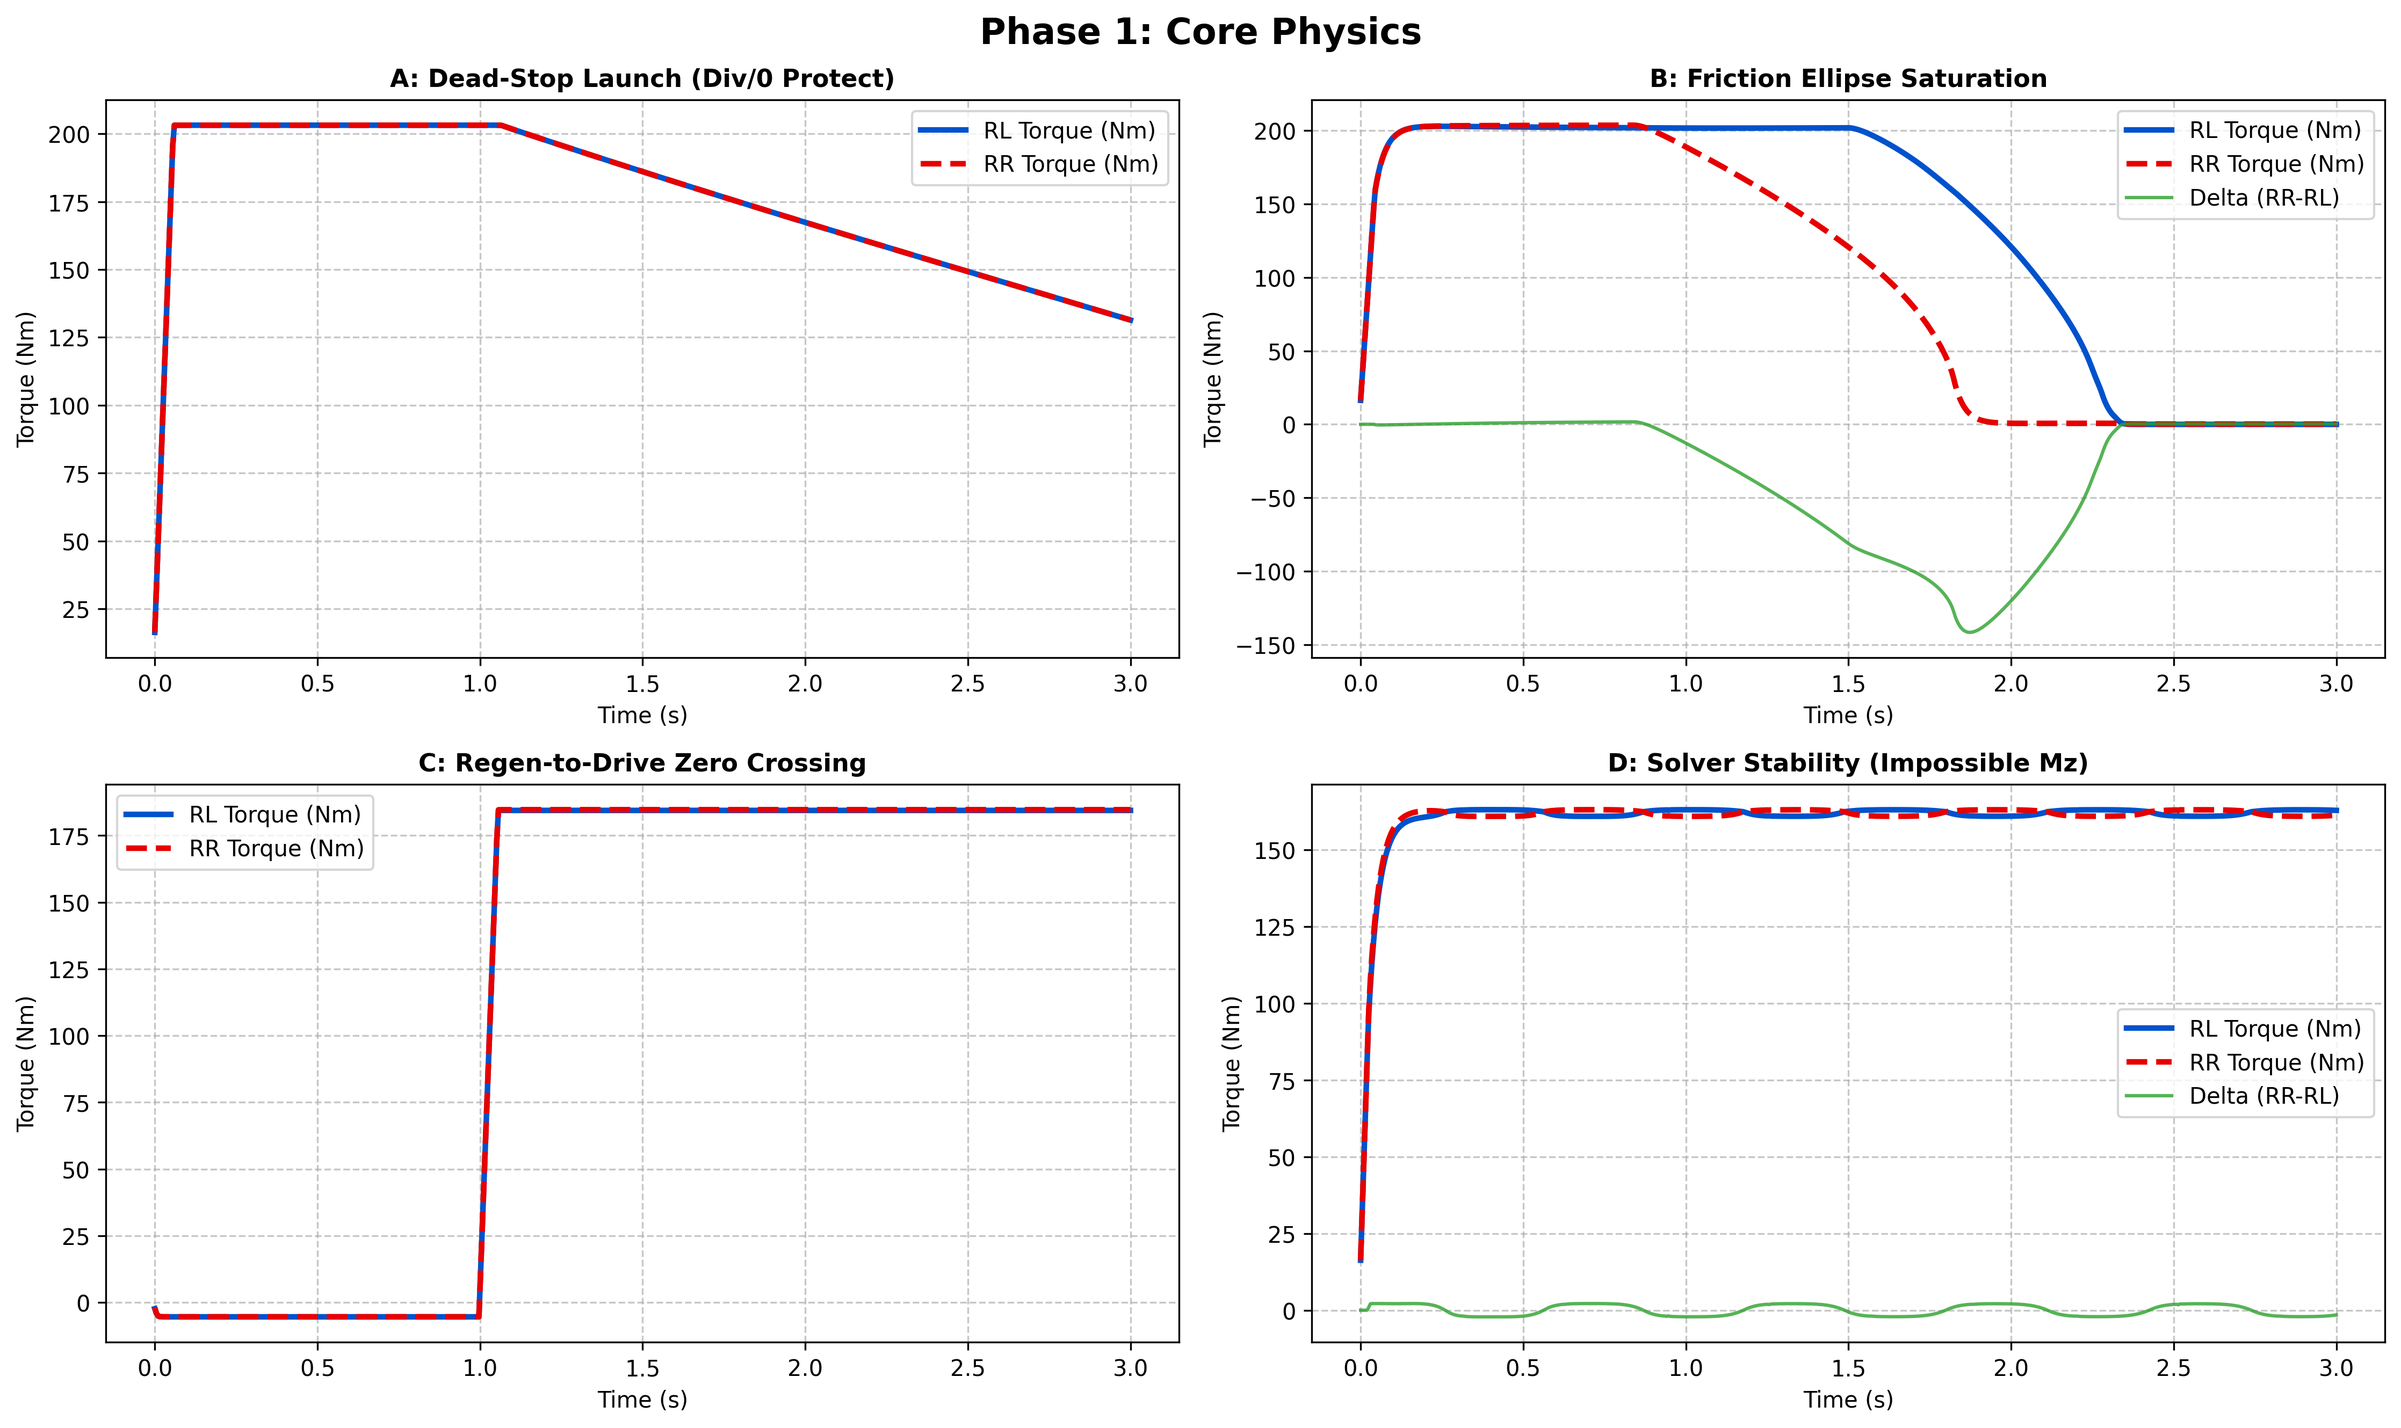
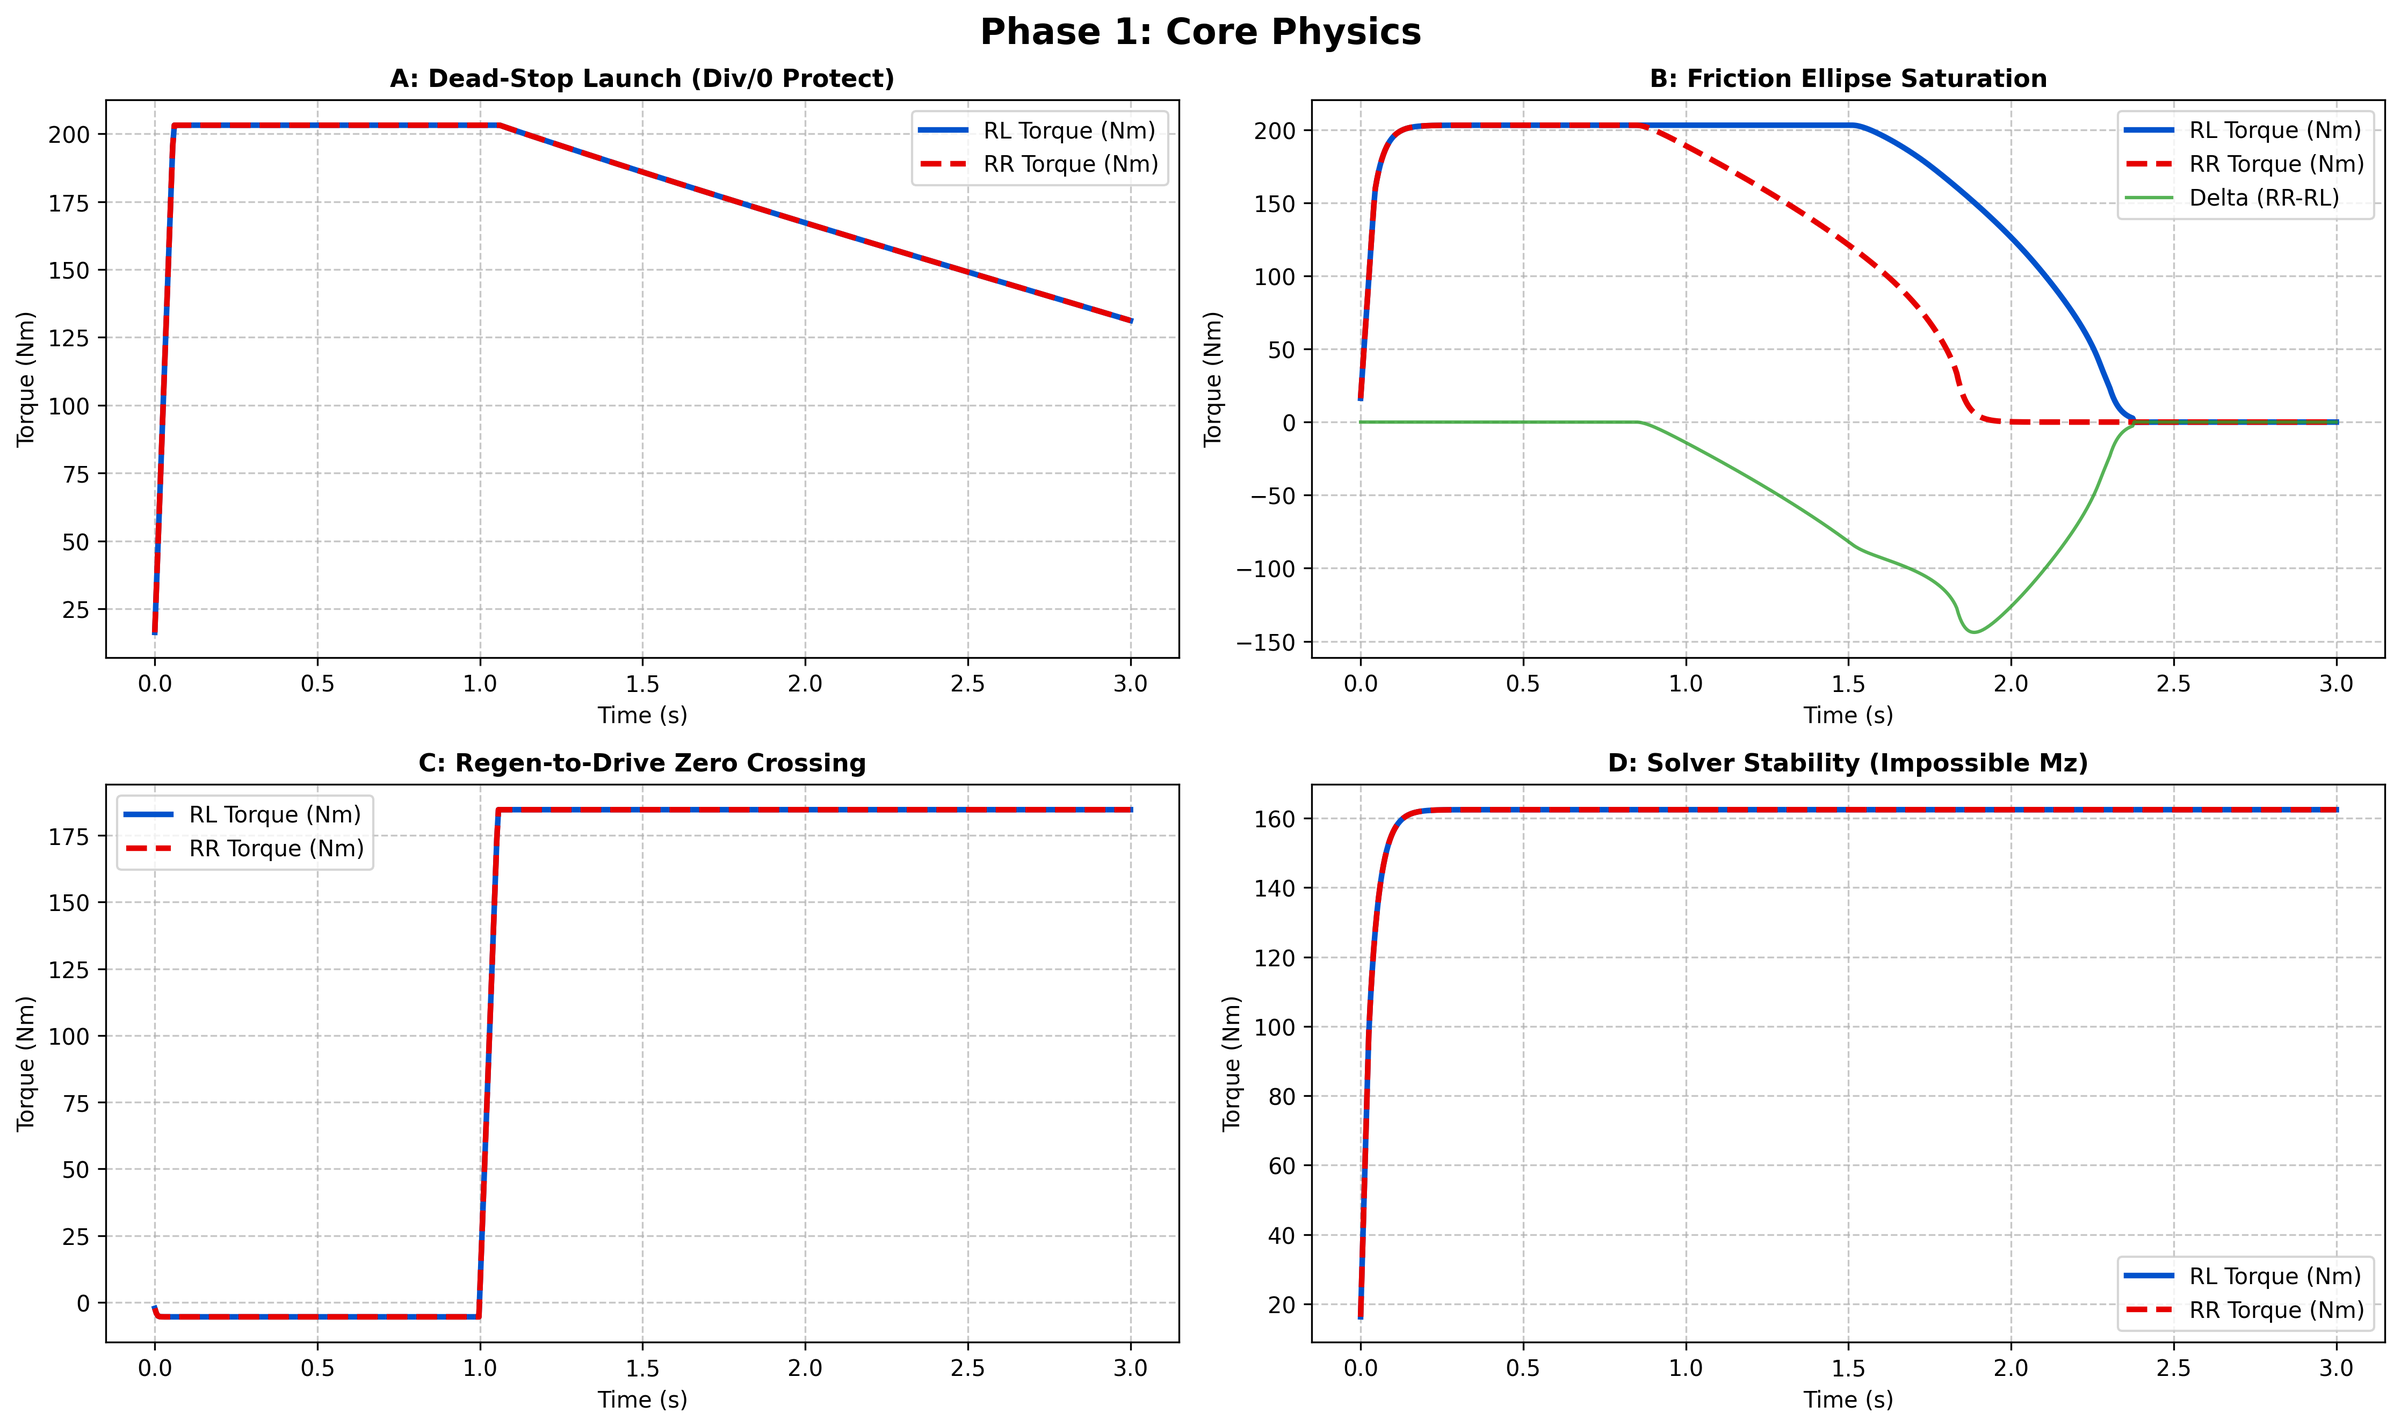
feat(tv): complete v3.1 rebuild with KKT solver, RK2 EKF, brush tire model and robust TC

diff --git a/SOFTWARE/TeR_ECU/Libraries/TRQ_VECTORING/src/gp_traction_control.c b/SOFTWARE/TeR_ECU/Libraries/TRQ_VECTORING/src/gp_traction_control.c
@@ -48,14 +48,16 @@ void gp_tc_step(
 ) {
     float t_mean_abs = (fabsf(t_req_out[GP_RL]) + fabsf(t_req_out[GP_RR])) * 0.5f;
     
-    float omega_ema_rl = 0.1f * omega[GP_RL] + 0.9f * state->omega_prev_ema[GP_RL];
+    // 1. Filtrado EMA rápido (tau ~ 25 ms) para eliminar el ruido blanco de los encoders (sigma=2.5 rad/s)
+    // antes de diferenciar, impidiendo que la derivada angular supere falsamente los 250 rad/s^2
+    float omega_ema_rl = 0.15f * omega[GP_RL] + 0.85f * state->omega_prev_ema[GP_RL];
     float raw_omega_dot_rl = (omega_ema_rl - state->omega_prev_ema[GP_RL]) / dt;
 
-    float omega_ema_rr = 0.1f * omega[GP_RR] + 0.9f * state->omega_prev_ema[GP_RR];
+    float omega_ema_rr = 0.15f * omega[GP_RR] + 0.85f * state->omega_prev_ema[GP_RR];
     float raw_omega_dot_rr = (omega_ema_rr - state->omega_prev_ema[GP_RR]) / dt;
 
-    float omega_dot_rl = GP_CLAMP(raw_omega_dot_rl, -5000.0f, 5000.0f);
-    float omega_dot_rr = GP_CLAMP(raw_omega_dot_rr, -5000.0f, 5000.0f);
+    float omega_dot_rl = GP_CLAMP(raw_omega_dot_rl, -2000.0f, 2000.0f);
+    float omega_dot_rr = GP_CLAMP(raw_omega_dot_rr, -2000.0f, 2000.0f);
 
     float fx_rl = (t_req_out[GP_RL] - GP_I_WHEEL_EST * omega_dot_rl) / GP_R_WHEEL;
     float fx_rr = (t_req_out[GP_RR] - GP_I_WHEEL_EST * omega_dot_rr) / GP_R_WHEEL;
@@ -110,6 +112,7 @@ void gp_tc_step(
         state->kappa_prev[i] = state->kappa_filt[i];
         state->fx_prev[i] = fx_wheels[i];
         
+        // Identificación RLS de rigidez de neumático
         float max_physical_dkappa = 0.30f * dt / 0.005f;
         if (fabsf(d_kappa) > 0.0001f && fabsf(d_kappa) < max_physical_dkappa && vx > 2.0f) {
             float lambda = 0.985f; 
@@ -135,8 +138,11 @@ void gp_tc_step(
                              
         float secant_ok = gp_sigmoid(fabsf(dtheta) / 500.0f - 2.0f);
         
-        float lr = 0.000005f; 
-        float kappa_grad = state->kappa_opt[i] + lr * state->rls_theta[i] * dt;
+        // 2. Descenso de gradiente normalizado para kappa_opt
+        float theta_mag = fabsf(state->rls_theta[i]);
+        float grad_dir = state->rls_theta[i] / (theta_mag + 5000.0f);
+        float lr_norm = 0.03f;
+        float kappa_grad = state->kappa_opt[i] + lr_norm * grad_dir * dt;
 
         state->kappa_opt[i] = secant_ok * GP_CLAMP(kappa_secant, 0.05f, 0.22f) + 
                               (1.0f - secant_ok) * GP_CLAMP(kappa_grad, 0.05f, 0.22f);
@@ -149,32 +155,36 @@ void gp_tc_step(
 
         float error = kappa_meas_mag - kappa_target_mag; 
         
+        // 3. Integrador con vaciado asimétrico para transitorios y pianos
         float raw_integral = state->pi_integral[i] + error * dt * speed_gate;
         state->pi_integral[i] = GP_TC_I_MAX * tanhf(raw_integral / GP_TC_I_MAX); 
-        state->pi_integral[i] *= (1.0f - 0.002f); 
+        if (error < 0.0f) {
+            state->pi_integral[i] *= (1.0f - 0.08f); // Vaciado rápido al recuperar tracción
+        } else {
+            state->pi_integral[i] *= (1.0f - 0.002f);
+        }
         
         float pi_out = kp_eff * error + ki_eff * state->pi_integral[i];
         
-        float omega_ema = 0.1f * omega[i] + 0.9f * state->omega_prev_ema[i];
-        float omega_dot = (omega_ema - state->omega_prev_ema[i]) / dt;
-
-        state->omega_prev_ema[i] = omega_ema;
+        float omega_dot = (i == GP_RL) ? omega_dot_rl : omega_dot_rr;
+        state->omega_prev_ema[i] = (i == GP_RL) ? omega_ema_rl : omega_ema_rr;
         state->omega_last_raw[i] = omega[i];
         
-        float error_gate = gp_sigmoid(error * 50.0f); 
+        // 4. Compuerta estricta: solo activar recorte por derivada si hay deslizamiento positivo real
+        float error_gate = gp_sigmoid(error * 40.0f); 
 
-        float deriv_kick_pos = 20.0f * gp_softplus((omega_dot - 250.0f) * 0.05f);
-        float deriv_kick_neg = 20.0f * gp_softplus((-omega_dot - 250.0f) * 0.05f);
-        float deriv_kick = 2.0f * ((sign_i > 0.0f) ? deriv_kick_pos : deriv_kick_neg);
+        float deriv_kick_pos = 12.0f * gp_softplus((omega_dot - 250.0f) * 0.05f);
+        float deriv_kick_neg = 12.0f * gp_softplus((-omega_dot - 250.0f) * 0.05f);
+        float deriv_kick = GP_CLAMP(2.0f * ((sign_i > 0.0f) ? deriv_kick_pos : deriv_kick_neg), 0.0f, 40.0f);
 
-        pi_out -= deriv_kick * error_gate; 
+        // Añadir deriv_kick únicamente ponderado por la compuerta de error de slip real
+        pi_out += deriv_kick * error_gate; 
         
         float reduction = speed_gate * gp_softplus(pi_out * GP_TC_CLAMP_BETA) / GP_TC_CLAMP_BETA;
 
         float mag_cmd = mag_in - reduction;
         float mag_out = gp_softplus(mag_cmd * GP_TC_CLAMP_BETA) / GP_TC_CLAMP_BETA;
 
-        // solo puede reducir el par, no aumentarlo (IMPORTANTE)
         mag_out = GP_MIN(mag_out, mag_in);
 
         t_req_out[i] = sign_i * mag_out;

diff --git a/SOFTWARE/TeR_ECU/Libraries/TRQ_VECTORING/src/gp_solver.c b/SOFTWARE/TeR_ECU/Libraries/TRQ_VECTORING/src/gp_solver.c
@@ -70,55 +70,47 @@ void gp_qp_solve_rwd_closedform(
 ) {
     const float h    = GP_W_REG + GP_W_SMOOTH;
     const float a_eq = 1.0f / GP_R_WHEEL;
-    const float b_eq = fx_driver;
 
-  
-    const float GP_SAT_SOFTNESS = 3.0f; // Nm
-
+    // 1. Ponderación objetivo de suavidad y regulación temporal
     const float t_bl_rl = (GP_W_REG * t_warmstart[GP_RL] + GP_W_SMOOTH * t_prev[GP_RL]) / h;
     const float t_bl_rr = (GP_W_REG * t_warmstart[GP_RR] + GP_W_SMOOTH * t_prev[GP_RR]) / h;
 
     const float lb_rl = t_lb[GP_RL], ub_rl = t_ub[GP_RL];
     const float lb_rr = t_lb[GP_RR], ub_rr = t_ub[GP_RR];
 
-   
-    const float lam = h * (a_eq * (t_bl_rl + t_bl_rr) - b_eq) / (2.0f * a_eq * a_eq);
-    const float t_rl_free = t_bl_rl - lam * a_eq / h;
-    const float t_rr_free = t_bl_rr - lam * a_eq / h;
+    // 2. Par total demandado por el piloto
+    float t_target = fx_driver * GP_R_WHEEL;
 
-   
-    const float margin_rl = fminf(t_rl_free - lb_rl, ub_rl - t_rl_free);
-    const float margin_rr = fminf(t_rr_free - lb_rr, ub_rr - t_rr_free);
-    const float sat_rl = gp_sigmoid(-margin_rl / GP_SAT_SOFTNESS);
-    const float sat_rr = gp_sigmoid(-margin_rr / GP_SAT_SOFTNESS);
+    // Acotar la demanda al límite físico combinado de ambos actuadores
+    const float t_total_min = lb_rl + lb_rr;
+    const float t_total_max = ub_rl + ub_rr;
+    t_target = GP_CLAMP(t_target, t_total_min, t_total_max);
 
-    // --- Caso A: RL satura, RR resuelve.
-    const float t_rl_A = GP_CLAMP(t_rl_free, lb_rl, ub_rl);
-    const float t_rr_A = GP_CLAMP((b_eq / a_eq) - t_rl_A, lb_rr, ub_rr);
+    // 3. Solución libre proyectada sobre T_rl + T_rr = T_target
+    float t_rl_sol = 0.5f * (t_target + t_bl_rl - t_bl_rr);
+    float t_rr_sol = t_target - t_rl_sol;
 
-    // --- CAso B: RR satura, RL resuelve (simetrico a A)
-    const float t_rr_B = GP_CLAMP(t_rr_free, lb_rr, ub_rr);
-    const float t_rl_B = GP_CLAMP((b_eq / a_eq) - t_rr_B, lb_rl, ub_rl);
-
-    // --- Candidato "ambos": clampeo independiente, imposible imposible
-    const float t_rl_clamp_only = GP_CLAMP(t_rl_free, lb_rl, ub_rl);
-    const float t_rr_clamp_only = GP_CLAMP(t_rr_free, lb_rr, ub_rr);
-
-    // --- Mezcla ponderada de los 4 candidatos
-    const float w_free = (1.0f - sat_rl) * (1.0f - sat_rr);
-    const float w_A    = sat_rl * (1.0f - sat_rr);
-    const float w_B    = (1.0f - sat_rl) * sat_rr;
-    const float w_both = sat_rl * sat_rr;
-
-    const float t_rl = w_free * t_rl_free + w_A * t_rl_A + w_B * t_rl_B + w_both * t_rl_clamp_only;
-    const float t_rr = w_free * t_rr_free + w_A * t_rr_A + w_B * t_rr_B + w_both * t_rr_clamp_only;
+    // 4. Árbol de decisión KKT exacto (garantiza Delta = 0.0 Nm si ambos saturan)
+    if (t_rl_sol > ub_rl) {
+        t_rl_sol = ub_rl;
+        t_rr_sol = GP_CLAMP(t_target - t_rl_sol, lb_rr, ub_rr);
+    } else if (t_rl_sol < lb_rl) {
+        t_rl_sol = lb_rl;
+        t_rr_sol = GP_CLAMP(t_target - t_rl_sol, lb_rr, ub_rr);
+    } else if (t_rr_sol > ub_rr) {
+        t_rr_sol = ub_rr;
+        t_rl_sol = GP_CLAMP(t_target - t_rr_sol, lb_rl, ub_rl);
+    } else if (t_rr_sol < lb_rr) {
+        t_rr_sol = lb_rr;
+        t_rl_sol = GP_CLAMP(t_target - t_rr_sol, lb_rl, ub_rl);
+    }
 
     t_out[GP_FL] = 0.0f;
     t_out[GP_FR] = 0.0f;
-    t_out[GP_RL] = t_rl;
-    t_out[GP_RR] = t_rr;
+    t_out[GP_RL] = t_rl_sol;
+    t_out[GP_RR] = t_rr_sol;
 
     if (qp_residual != NULL) {
-        *qp_residual = fabsf(a_eq * (t_rl + t_rr) - b_eq);
+        *qp_residual = fabsf(a_eq * (t_rl_sol + t_rr_sol) - fx_driver);
     }
 }

diff --git a/SOFTWARE/TeR_ECU/Libraries/TRQ_VECTORING/src/gp_ekf.c b/SOFTWARE/TeR_ECU/Libraries/TRQ_VECTORING/src/gp_ekf.c
@@ -35,10 +35,18 @@ void gp_ekf_predict(
     float vx_safe = GP_MAX(fabsf(vx), 0.5f);
     ekf->wz_corrected = wz_raw - ekf->x[GP_EKF_STATE_BW];
 
-    float vy_dot = ay_filt - (vx_safe * ekf->wz_corrected);
-    ekf->x[GP_EKF_STATE_VY] += vy_dot * dt;
+    // --- Integración Heun RK2 (Predictor-Corrector) ---
+    float vy_dot_k = ay_filt - (vx_safe * ekf->wz_corrected);
+    float vy_pred  = ekf->x[GP_EKF_STATE_VY] + vy_dot_k * dt;
+    vy_pred        = GP_CLAMP(vy_pred, -6.0f, 6.0f);
+
+    float vy_dot_corr = ay_filt - (vx_safe * ekf->wz_corrected);
+    float vy_dot_eff  = 0.5f * (vy_dot_k + vy_dot_corr);
+
+    ekf->x[GP_EKF_STATE_VY] += vy_dot_eff * dt;
     ekf->x[GP_EKF_STATE_VY] = GP_CLAMP(ekf->x[GP_EKF_STATE_VY], -6.0f, 6.0f);
 
+    // Propagación discreta de la covarianza (F = I + A*dt)
     float f01 = dt * vx_safe;
 
     float p00 = ekf->P[0][0];
@@ -56,9 +64,7 @@ void gp_ekf_predict(
     }
 
     ekf->beta_est = atan2f(ekf->x[GP_EKF_STATE_VY], vx_safe);
-    
     ekf->beta_est = GP_CLAMP(ekf->beta_est, -0.523f, 0.523f);
-    
     ekf->vy_std   = sqrtf(ekf->P[0][0]);
 }
 
@@ -109,23 +115,24 @@ void gp_ekf_update_gps(gp_ekf_t* ekf, float vy_gps, uint8_t gps_valid) {
     gp_ekf_scalar_update(ekf, GP_EKF_STATE_VY, vy_gps, ekf->R_gps_vy);
 }
 
-void gp_ekf_update_kinematic_ss(gp_ekf_t* ekf, float ay_filt, float wz_raw, float vx) {
+void gp_ekf_update_kinematic_ss(gp_ekf_t* ekf, float ax_filt, float ay_filt, float wz_raw, float vx) {
     float vx_safe = GP_MAX(fabsf(vx), 0.5f);
     float wz_corr = wz_raw - ekf->x[GP_EKF_STATE_BW];
     
     float vy_ss = (GP_LR * wz_corr) - ((GP_MASS * ay_filt * GP_LF * vx_safe) / (GP_WB * GP_C_ALPHA_R));
-
-    // Clampear vy_ss
     vy_ss = GP_CLAMP(vy_ss, -3.0f, 3.0f);
 
-    // Penallty de sat
-    float ay_norm = fabsf(ay_filt) / 9.81f;
-    float saturation_penalty = 1.0f + 8.0f * GP_CLAMP(ay_norm - 0.5f, 0.0f, 2.0f) * GP_CLAMP(ay_norm - 0.5f, 0.0f, 2.0f);
+    // Penalización por saturación combinada en el diagrama G-G (Kamm Circle)
+    float a_total_g = sqrtf(ax_filt * ax_filt + ay_filt * ay_filt) / 9.81f;
+    
+    // Si la aceleración combinada supera 0.45 G, inflamos cuadráticamente la varianza R
+    // para priorizar la integración inercial y descartar el modelo cinemático lineal
+    float excess_g = GP_CLAMP(a_total_g - 0.45f, 0.0f, 2.0f);
+    float saturation_penalty = 1.0f + 10.0f * (excess_g * excess_g);
     float r_effective = ekf->R_pseudo_vy * saturation_penalty;
 
     gp_ekf_scalar_update(ekf, GP_EKF_STATE_VY, vy_ss, r_effective);
     
-    // hard bound al estimado
     ekf->x[GP_EKF_STATE_VY] = GP_CLAMP(ekf->x[GP_EKF_STATE_VY], -6.0f, 6.0f);
 }
 

diff --git a/SOFTWARE/TeR_ECU/Libraries/TRQ_VECTORING/src/gp_torque_vectoring.c b/SOFTWARE/TeR_ECU/Libraries/TRQ_VECTORING/src/gp_torque_vectoring.c
@@ -65,11 +65,9 @@ void gp_tv_init(tv_state_t* state) {
     state->ay_filt = 0.0f;
     state->t_ub_rl_filt = 0.0f;
     state->t_ub_rr_filt = 0.0f;
-    
-    state->t_ub_rl_filt = 0.0f;
-    state->t_ub_rr_filt = 0.0f;
     state->t_lb_rl_filt = 0.0f;
     state->t_lb_rr_filt = 0.0f;
+    state->qp_residual = 0.0f;
 
     float h = GP_W_REG + GP_W_SMOOTH;
     float a_sq = 2.0f / (GP_R_WHEEL * GP_R_WHEEL);
@@ -124,7 +122,7 @@ void gp_tv_step(
     gp_ekf_predict(&state->ekf, delta, state->ax_filt, state->ay_filt, wz, vx, dt);
 
     gp_ekf_update_gps(&state->ekf, vy_gps, gps_valid);
-    gp_ekf_update_kinematic_ss(&state->ekf, state->ay_filt, wz, vx);
+    gp_ekf_update_kinematic_ss(&state->ekf, state->ax_filt, state->ay_filt, wz, vx);
 
     vy = state->ekf.x[GP_EKF_STATE_VY];
     float wz_corr = state->ekf.wz_corrected;  // Gyro bias compensated yaw rate
@@ -178,12 +176,12 @@ void gp_tv_step(
     
     float mu_avg = 0.5f * (state->tc.mu_surface[0] + state->tc.mu_surface[1]);
 
-    // 1. Desacoplar la potencia eléctrica de la resonancia torsional mecánica del palier (15 Hz)
-    // El límite de potencia del inversor responde a la velocidad cinemática de traslación del vehículo
+    // 1. Desacoplo cinemático total del límite de potencia eléctrica frente a la resonancia del semieje
+    // La envolvente térmica/eléctrica de los inversores se rige estrictamente por la velocidad del chasis
     float omega_power[4];
     float w_chassis = vx_safe / GP_R_WHEEL;
     for (int i = 0; i < 4; i++) {
-        omega_power[i] = 0.85f * w_chassis + 0.15f * omega[i];
+        omega_power[i] = w_chassis;
     }
 
     gp_friction_ellipse_t_ub(fz_est, fy_est, mu_avg, t_ub_friction);

diff --git a/SOFTWARE/TeR_ECU/Libraries/TRQ_VECTORING/inc/gp_ekf.h b/SOFTWARE/TeR_ECU/Libraries/TRQ_VECTORING/inc/gp_ekf.h
@@ -43,7 +43,7 @@ void gp_ekf_update_gps(
 
 void gp_ekf_update_kinematic_ss(
     gp_ekf_t* ekf,
-    float ay_filt, float wz_raw, float vx
+    float ax_filt, float ay_filt, float wz_raw, float vx
 );
 
 void gp_ekf_update_friction(
